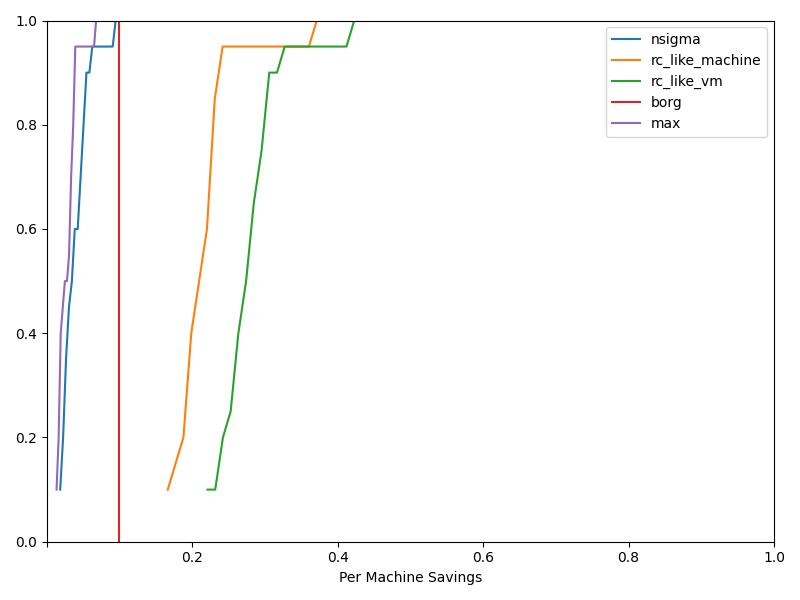
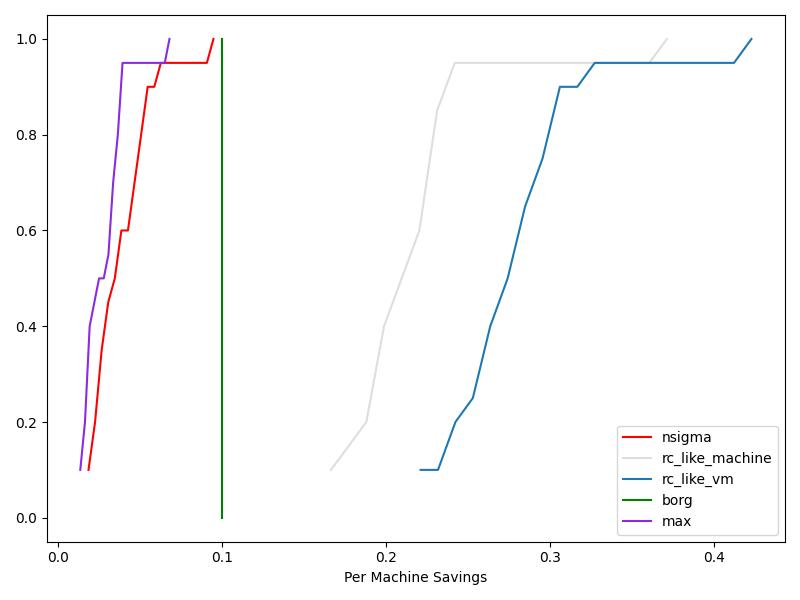
added all recent changes

diff --git a/Resource_Forecast/CDF/CDF_RC/CDF_hist.py b/Resource_Forecast/CDF/CDF_RC/CDF_hist.py
@@ -1,17 +1,21 @@
 import pandas as pd
 import  numpy as np
 
-predict_borg=pd.read_parquet('D://cluster-resource-forecast-master//prediction_24hr_high_limit_borg_predictor-00000-of-00001.parquet').rename(columns={"predicted_peak": "limit"})
-predict_5sigma=pd.read_parquet('D://cluster-resource-forecast-master//prediction_24hr_high_n_sigma_5-00000-of-00001.parquet').rename(columns={"predicted_peak": "nsigma"})
-predict_99p=pd.read_parquet('D://cluster-resource-forecast-master//prediction_24hr_high_rc_machine_like_predictor-00000-of-00001.parquet').rename(columns={"predicted_peak": "rc_like_machine"})
-predict_=pd.read_parquet('D://cluster-resource-forecast-master//prediction_24hr_high_oracle_peak-00000-of-00001.parquet').rename(columns={"predicted_peak": "oracle"})
-predict_99p2=pd.read_parquet('D://cluster-resource-forecast-master//prediction_24hr_high_rc_vm_like_predictor-00000-of-00001.parquet').rename(columns={"predicted_peak": "rc_like_vm"})
+predict_95p=pd.read_parquet('D://cluster-resource-forecast-master//Data//output//prediction_24hr_high_rc_machine_like_predictor_95-00000-of-00001.parquet').rename(columns={"predicted_peak": "rc_like_machine_95"})
+predict_90p=pd.read_parquet('D://cluster-resource-forecast-master//Data//output//prediction_24hr_high_rc_machine_like_predictor_90-00000-of-00001.parquet').rename(columns={"predicted_peak": "rc_like_machine_90"})
+predict_85p=pd.read_parquet('D://cluster-resource-forecast-master//Data//output//prediction_24hr_high_rc_vm_like_predictor_85-00000-of-00001.parquet').rename(columns={"predicted_peak": "rc_like_vm_85"})
 
-all=pd.merge(predict_[["simulated_time","simulated_machine","oracle","total_usage","limit"]],predict_5sigma[["simulated_time","simulated_machine","nsigma"]],on=["simulated_time","simulated_machine"])
-all=pd.merge(all,predict_99p[["simulated_time","simulated_machine","rc_like_machine"]],on=["simulated_time","simulated_machine"])
-all=pd.merge(all,predict_99p2[["simulated_time","simulated_machine","rc_like_vm"]],on=["simulated_time","simulated_machine"])
-all["borg"]=all["limit"]*0.9
-all["max"]=all[['nsigma','rc_like_machine', 'rc_like_vm', 'borg']].max(axis=1)
+predict_95p["simulated_time"]=predict_95p["simulated_time"]/predict_95p["simulated_time"].min()
+predict_90p["simulated_time"]=predict_90p["simulated_time"]/predict_90p["simulated_time"].min()
+predict_85p["simulated_time"]=predict_85p["simulated_time"]/predict_85p["simulated_time"].min()
+
+predict_=pd.read_parquet('D://cluster-resource-forecast-master//Data//output//prediction_2hr_all.parquet')
+
+all=pd.merge(predict_[["simulated_time","simulated_machine","oracle","rc_like_vm","limit"]],predict_95p[["simulated_time","simulated_machine","rc_like_machine_95"]],on=["simulated_time","simulated_machine"])
+all=pd.merge(all,predict_90p[["simulated_time","simulated_machine","rc_like_machine_90"]],on=["simulated_time","simulated_machine"])
+all=pd.merge(all,predict_85p[["simulated_time","simulated_machine","rc_like_vm_85"]],on=["simulated_time","simulated_machine"])
+#all["borg"]=all["limit"]*0.9
+#all["max"]=all[['nsigma','rc_like_machine', 'rc_like_vm', 'borg']].max(axis=1)
 all["simulated_time"]=all["simulated_time"]/all["simulated_time"].min()
 #all=pd.merge(all,predict_ml,on="simulated_time")
 
@@ -23,11 +27,10 @@ from sklearn.metrics import mean_absolute_percentage_error,mean_squared_error
 
 #all=pd.read_parquet("D://cluster-resource-forecast-master//prediction_2hr_all.parquet")
 algo_serial=dict()
-algo_serial["nsigma"]=0
-algo_serial["rc_like_machine"]=1
-algo_serial["rc_like_vm"]=2
-algo_serial["borg"]=3
-algo_serial["max"]=4
+#algo_serial["nsigma"]=0
+algo_serial["rc_like_vm"]=0
+algo_serial["rc_like_vm_85"]=1
+#algo_serial["max"]=4
 
 
 
@@ -63,9 +66,9 @@ def output_predictions(predictors,true,limit):
     print(mape)
     return sav,vio,vio_sev
 
+algo_to_consider=['rc_like_vm','rc_like_vm_85']
 
-output_predictions(all[['nsigma',
-       'rc_like_machine', 'rc_like_vm', 'borg',"max"]].to_dict(),all[["oracle"]].to_numpy(),all[["limit"]].to_numpy())
+output_predictions(all[algo_to_consider].to_dict(),all[["oracle"]].to_numpy(),all[["limit"]].to_numpy())
 cum_vio=dict()
 cum_vio_sev=dict()
 cum_sav=dict()
@@ -77,8 +80,7 @@ for machine_id, current_machine_data in all.groupby(["simulated_machine"]):
     current_machine+=1
     cum_machine_no.append(current_machine/total_machines)
     machine_algo_result=current_machine_data.copy().reset_index().drop("index",axis=1)
-    machine_sav,machine_vio,machine_vio_sev=output_predictions(machine_algo_result[['nsigma',
-       'rc_like_machine', 'rc_like_vm', 'borg',"max"]].to_dict(),machine_algo_result[["oracle"]].to_numpy(),machine_algo_result[["limit"]].to_numpy())
+    machine_sav,machine_vio,machine_vio_sev=output_predictions(machine_algo_result[algo_to_consider].to_dict(),machine_algo_result[["oracle"]].to_numpy(),machine_algo_result[["limit"]].to_numpy())
 
     for key in algo_serial.keys():
         if(key in cum_sav.keys()):
@@ -106,37 +108,21 @@ from matplotlib import pyplot as plt
 plt.rcParams["figure.figsize"] = [8,6]
 plt.rcParams["figure.autolayout"] = True
 
-def getColor(key):
-    'nsigma',
-    'rc_like_machine', 'rc_like_vm', 'borg', "max"
-    if(key=='nsigma'):
-        return "r"
-    elif(key=='rc_like_machine'):
-        return "#dededb"
-    elif (key == 'rc_like_machine'):
-        return "#cccccc"
-    elif (key == 'borg'):
-        return "g"
-    elif (key == 'max'):
-        return "#8a2be2"
-
-
 def draw_cdf(data,file_name):
     for key in data.keys():
         N = len(data[key])
         values = np.array(data[key])
-        count, bins_count = np.histogram(values, bins=N)
-        pdf = count / sum(count)
-        cdf = np.cumsum(pdf)
-
-        plt.plot(bins_count[1:], cdf, label=key,color=getColor(key))
+        #count, bins_count = np.histogram(values, bins=N)
+        #pdf = count / sum(count)
+        #cdf = np.cumsum(pdf)
+        plt.hist(values, label=key)
 
     #plt.xlim(0,1)
     #plt.ylim(0,1)
-    plt.xlabel("Per Machine "+file_name)
-    plt.gca().axes.get_xticklabels()[0].set_visible(False)
+    #plt.xlabel("Per Machine "+file_name)
+    #plt.gca().axes.get_xticklabels()[0].set_visible(False)
     plt.legend()
-    plt.savefig("./output/"+file_name+".jpg")
+    plt.savefig("./output/"+file_name+"vm.jpg")
     plt.show()
     plt.cla()
     plt.clf()

diff --git a/Resource_Forecast/CDF/CDF_RC/CDF.py b/Resource_Forecast/CDF/CDF_RC/CDF.py
@@ -1,17 +1,21 @@
 import pandas as pd
 import  numpy as np
 
-predict_borg=pd.read_parquet('D://cluster-resource-forecast-master//prediction_24hr_high_limit_borg_predictor-00000-of-00001.parquet').rename(columns={"predicted_peak": "limit"})
-predict_5sigma=pd.read_parquet('D://cluster-resource-forecast-master//prediction_24hr_high_n_sigma_5-00000-of-00001.parquet').rename(columns={"predicted_peak": "nsigma"})
-predict_99p=pd.read_parquet('D://cluster-resource-forecast-master//prediction_24hr_high_rc_machine_like_predictor-00000-of-00001.parquet').rename(columns={"predicted_peak": "rc_like_machine"})
-predict_=pd.read_parquet('D://cluster-resource-forecast-master//prediction_24hr_high_oracle_peak-00000-of-00001.parquet').rename(columns={"predicted_peak": "oracle"})
-predict_99p2=pd.read_parquet('D://cluster-resource-forecast-master//prediction_24hr_high_rc_vm_like_predictor-00000-of-00001.parquet').rename(columns={"predicted_peak": "rc_like_vm"})
+predict_95p=pd.read_parquet('D://cluster-resource-forecast-master//Data//output//prediction_24hr_high_rc_machine_like_predictor_95-00000-of-00001.parquet').rename(columns={"predicted_peak": "rc_like_machine_95"})
+predict_90p=pd.read_parquet('D://cluster-resource-forecast-master//Data//output//prediction_24hr_high_rc_machine_like_predictor_90-00000-of-00001.parquet').rename(columns={"predicted_peak": "rc_like_machine_90"})
+predict_85p=pd.read_parquet('D://cluster-resource-forecast-master//Data//output//prediction_24hr_high_rc_vm_like_predictor_85-00000-of-00001.parquet').rename(columns={"predicted_peak": "rc_like_vm_85"})
 
-all=pd.merge(predict_[["simulated_time","simulated_machine","oracle","total_usage","limit"]],predict_5sigma[["simulated_time","simulated_machine","nsigma"]],on=["simulated_time","simulated_machine"])
-all=pd.merge(all,predict_99p[["simulated_time","simulated_machine","rc_like_machine"]],on=["simulated_time","simulated_machine"])
-all=pd.merge(all,predict_99p2[["simulated_time","simulated_machine","rc_like_vm"]],on=["simulated_time","simulated_machine"])
-all["borg"]=all["limit"]*0.9
-all["max"]=all[['nsigma','rc_like_machine', 'rc_like_vm', 'borg']].max(axis=1)
+predict_95p["simulated_time"]=predict_95p["simulated_time"]/predict_95p["simulated_time"].min()
+predict_90p["simulated_time"]=predict_90p["simulated_time"]/predict_90p["simulated_time"].min()
+predict_85p["simulated_time"]=predict_85p["simulated_time"]/predict_85p["simulated_time"].min()
+
+predict_=pd.read_parquet('D://cluster-resource-forecast-master//Data//output//prediction_2hr_all.parquet')
+
+all=pd.merge(predict_[["simulated_time","simulated_machine","oracle","rc_like_vm","limit"]],predict_95p[["simulated_time","simulated_machine","rc_like_machine_95"]],on=["simulated_time","simulated_machine"])
+all=pd.merge(all,predict_90p[["simulated_time","simulated_machine","rc_like_machine_90"]],on=["simulated_time","simulated_machine"])
+all=pd.merge(all,predict_85p[["simulated_time","simulated_machine","rc_like_vm_85"]],on=["simulated_time","simulated_machine"])
+#all["borg"]=all["limit"]*0.9
+#all["max"]=all[['nsigma','rc_like_machine', 'rc_like_vm', 'borg']].max(axis=1)
 all["simulated_time"]=all["simulated_time"]/all["simulated_time"].min()
 #all=pd.merge(all,predict_ml,on="simulated_time")
 
@@ -23,11 +27,10 @@ from sklearn.metrics import mean_absolute_percentage_error,mean_squared_error
 
 #all=pd.read_parquet("D://cluster-resource-forecast-master//prediction_2hr_all.parquet")
 algo_serial=dict()
-algo_serial["nsigma"]=0
-algo_serial["rc_like_machine"]=1
-algo_serial["rc_like_vm"]=2
-algo_serial["borg"]=3
-algo_serial["max"]=4
+#algo_serial["nsigma"]=0
+algo_serial["rc_like_vm"]=0
+algo_serial["rc_like_vm_85"]=1
+#algo_serial["max"]=4
 
 
 
@@ -63,9 +66,9 @@ def output_predictions(predictors,true,limit):
     print(mape)
     return sav,vio,vio_sev
 
+algo_to_consider=['rc_like_vm','rc_like_vm_85']
 
-output_predictions(all[['nsigma',
-       'rc_like_machine', 'rc_like_vm', 'borg',"max"]].to_dict(),all[["oracle"]].to_numpy(),all[["limit"]].to_numpy())
+output_predictions(all[algo_to_consider].to_dict(),all[["oracle"]].to_numpy(),all[["limit"]].to_numpy())
 cum_vio=dict()
 cum_vio_sev=dict()
 cum_sav=dict()
@@ -77,8 +80,7 @@ for machine_id, current_machine_data in all.groupby(["simulated_machine"]):
     current_machine+=1
     cum_machine_no.append(current_machine/total_machines)
     machine_algo_result=current_machine_data.copy().reset_index().drop("index",axis=1)
-    machine_sav,machine_vio,machine_vio_sev=output_predictions(machine_algo_result[['nsigma',
-       'rc_like_machine', 'rc_like_vm', 'borg',"max"]].to_dict(),machine_algo_result[["oracle"]].to_numpy(),machine_algo_result[["limit"]].to_numpy())
+    machine_sav,machine_vio,machine_vio_sev=output_predictions(machine_algo_result[algo_to_consider].to_dict(),machine_algo_result[["oracle"]].to_numpy(),machine_algo_result[["limit"]].to_numpy())
 
     for key in algo_serial.keys():
         if(key in cum_sav.keys()):
@@ -106,21 +108,6 @@ from matplotlib import pyplot as plt
 plt.rcParams["figure.figsize"] = [8,6]
 plt.rcParams["figure.autolayout"] = True
 
-def getColor(key):
-    'nsigma',
-    'rc_like_machine', 'rc_like_vm', 'borg', "max"
-    if(key=='nsigma'):
-        return "r"
-    elif(key=='rc_like_machine'):
-        return "#dededb"
-    elif (key == 'rc_like_machine'):
-        return "#cccccc"
-    elif (key == 'borg'):
-        return "g"
-    elif (key == 'max'):
-        return "#8a2be2"
-
-
 def draw_cdf(data,file_name):
     for key in data.keys():
         N = len(data[key])
@@ -128,15 +115,14 @@ def draw_cdf(data,file_name):
         count, bins_count = np.histogram(values, bins=N)
         pdf = count / sum(count)
         cdf = np.cumsum(pdf)
+        plt.plot(bins_count[1:], cdf, label=key)
 
-        plt.plot(bins_count[1:], cdf, label=key,color=getColor(key))
-
-    #plt.xlim(0,1)
-    #plt.ylim(0,1)
+    plt.xlim(0,1)
+    plt.ylim(0,1)
     plt.xlabel("Per Machine "+file_name)
     plt.gca().axes.get_xticklabels()[0].set_visible(False)
     plt.legend()
-    plt.savefig("./output/"+file_name+".jpg")
+    plt.savefig("./output/"+file_name+"vm.jpg")
     plt.show()
     plt.cla()
     plt.clf()
